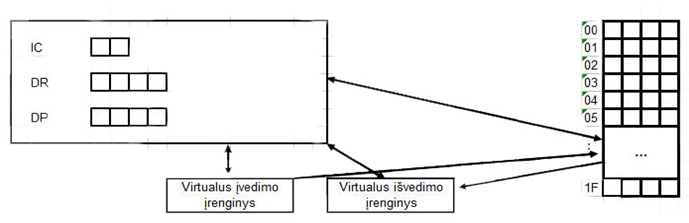
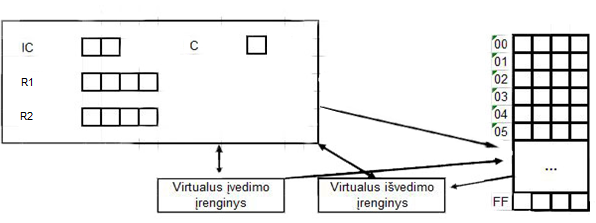
VM update

diff --git a/Virtualios ir realios mašinos projektas/vm.tex b/Virtualios ir realios mašinos projektas/vm.tex
@@ -12,8 +12,7 @@ Virtuali mašina – tai virtuali realios mašinos kopija. Virtuali reiškia net
 
 Virtualios mašinos (VM) atmintis sudaryta iš 16 žodžių po 4 baitus. 16 žodžių sudarys bloką. Kiekvienai VM skiriama po 16 blokų. Tuose šešiolikoje blokų turi tilpti programa.
 Pirmuose keturiuose blokuose bus saugomos programos komandos, o likusiuose dvylika – programos darbui reikalingi duomenys.
-Ryšiai tarp realaus ir virtualaus adrZeso bus nusakomi per puslapiavimo mechanizmą. Puslapiavimo lentelė bus saugoma paskutiniuose penkiuose atminties blokuose.
-
+Ryšiai tarp realaus ir virtualaus adreso bus nusakomi per puslapiavimo mechanizmą. Puslapiavimo lentelė bus saugoma paskutiniuose penkiuose atminties blokuose.
 
 \includegraphics{VMatmintis.PNG}
 
@@ -22,8 +21,8 @@ Ryšiai tarp realaus ir virtualaus adrZeso bus nusakomi per puslapiavimo mechani
 Virtualios mašinos procesoriaus paskirtis – vykdyti programą, kuri yra virtualioje atmintyje. Kiekvienas procesas turi savo virtualų centrinį procesorių, tačiau sisteminių procesų programas vykdo aukšto lygio kalbos procesorius. 
 Virtualaus procesoriaus registrai:
 \begin{itemize}
-\item R – 4 baitų bendro naudojimo registras;
-\item D – 4 baitų bendro naudojimo registras;
+\item R1 – 4 baitų bendro naudojimo registras;
+\item R2 – 4 baitų bendro naudojimo registras;
 \item IC – 2 baitų virtualios mašinos programos skaitiklis;
 \item C – 1 baito loginis trigeris.
 \end{itemize}
@@ -37,24 +36,24 @@ Galimos reikšmės:
 \begin{enumerate}
 \item Aritmetinės komandos: \leavevmode 
 \begin{itemize}
-\item ADD – sudeda R1 ir R2, kur R1 ir R2 – įvedami skaičiai arba komandos, įrašoma į R3
-\item SUB – iš R1 atimama R2, įrašoma į R3
-\item MUL – sudaugina R1 ir R2, įrašoma į R3
-\item DIV – padalina R1 iš R2, įrašoma į R3
+\item ADD – sudeda R1 ir R2, įrašoma į R1
+\item SUB – iš R1 atimama R2, įrašoma į R1
+\item MUL – sudaugina R1 ir R2, įrašoma į R1
+\item DIV – padalina R1 iš R2, įrašoma į R1
 \end{itemize}
 \item Palyginimo komandos:
 \begin{itemize}
 \item CMP – ši komanda palygina registre R1 ir R2 išsaugoma į C reikšmę: 0 – jei R1 = R2,  1 – jei R1 > R2, 2 –  R1 < R2.
-\item JMP x1x2 - ši komanda pagal C reikšmę „šoka“ į atminti su adresu 
+\item JMP x1x2 - ši komanda pagal C reikšmę „šoka“ į atminti su adresu x1x2
 \end{itemize}
 \item  Darbo su duomenimis komandos:
 \begin{itemize}
 \item LWx1x2 – į registrą R1 užkrauna žodį nurodytu adresu 16 * x1 + x2.
-\item LSx1x2 – į atmintį įkelia žodį ar skaičių.
+\item LSx1x2 – į atmintį  adresu 16 * x1 + x2 rašo žodį ar skaičių.
 \item LCx1x2 – iš realios atminties pasiima žodį ar skaičių ir įkelia į R1.
 \item LEx1x2 – į registrą R2 užkrauna skaičių, adresu 16 * x1 + x2.
 \item PD x1x2 – išvedimo komanda
-\item LK x1x2 – nuskaito registrą R2
+\item LD x1x2 – nuskaito registrą R2
 \end{itemize}
 \item Valdymo komandos:
 \begin{itemize}
@@ -68,7 +67,7 @@ Galimos reikšmės:
 \subsection{Virtualios mašinos bendravimo su įvedimo/išvedimo įrenginiais
 mechanizmo aprašymas}
 
-VM duomenis skaito iš ``flash'' atmintines (arba hdd), o rezultatą išveda į spausdintuvą. Įvedimą/išvedimą kontroliuoja kanalų įrenginys.
+Įvedimui naudojamas virtualių „flash atmintinių“ nuskaitymo įrenginys, išvedimui - spausdintuvas. Yra išorinės atminties įrenginys - kietasis diskas. Įvedimą/išvedimą kontroliuoja kanalų įrenginys.
 
 \subsection{Virtualios mašinos interpretuojamojo vykdomojo failo išeities 
 teksto formatas}
@@ -78,16 +77,8 @@ komandas. Paskutinė vykdoma komanda privalo būti HALT. Kitu atveju virtualios 
 rezultatai nėra apibrėžti.
 
 Bendra programos schema:\\
-\\\textbf{DATASEG:}
-
-DW simbolinis žodis – 4simboliai tarp kabučių (pvz.: DW "ABCD")
-
-DPI neneigiamas sveikas skaičius (pvz. DPI 5)
-
-DNI neigiamas sveikas skaičius (pvz. DNI -2)
-\\\textbf{CODESEG:}
-
-<komandos po 4 simbolius>\\
+\\\textbf{START}\\
+<komandos>\\
 \textbf{HALT}
 
 \subsection{Modeliuojamos virtualios mašinos loginių komponentų sąryšio su 
